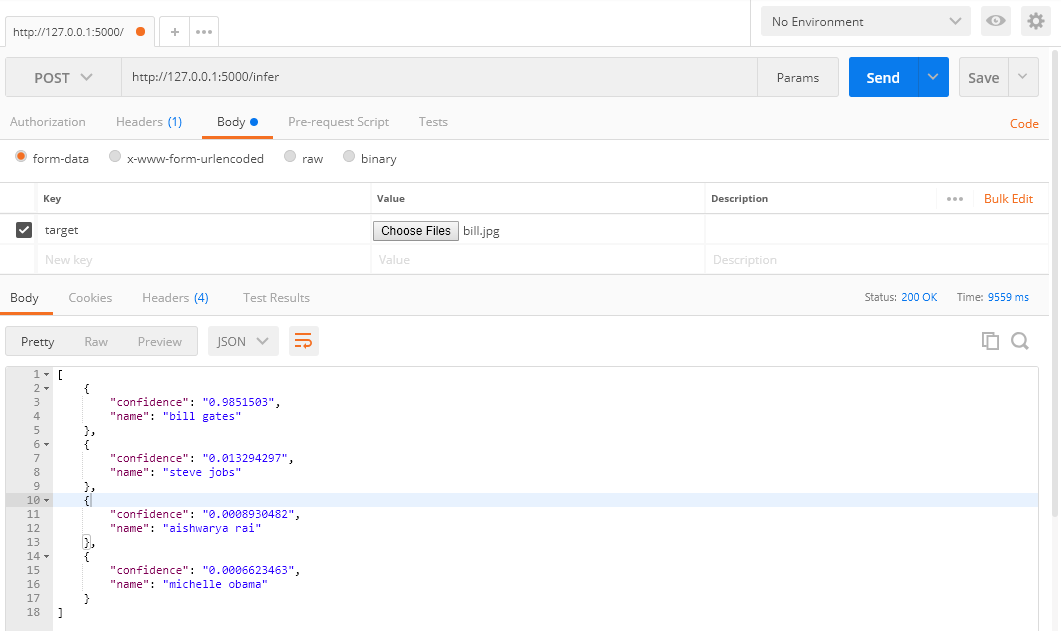
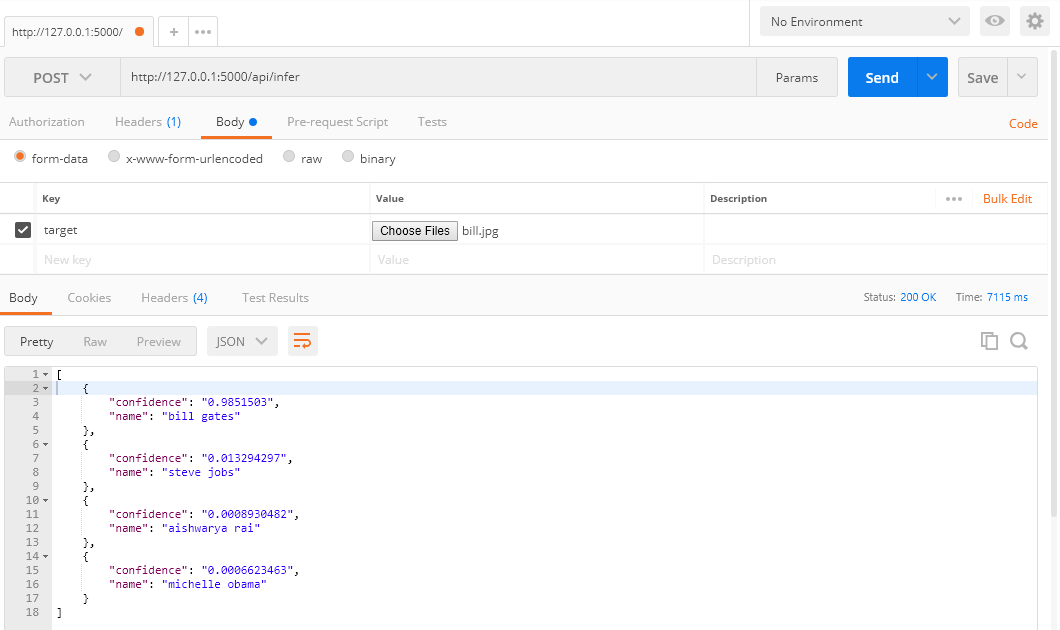
Added a webpage to test the API.
Updated README with API and website usage instructions, and descriptions for each step.

diff --git a/web/index.html b/web/index.html
@@ -1,0 +1,162 @@
+<!DOCTYPE html>
+<html>
+  <head>
+    <meta charset="utf-8">
+    <meta name="viewport" content="width=device-width, initial-scale=1">
+    <title>Celebrity Recognizer</title>
+    <link rel="stylesheet" href="https://cdnjs.cloudflare.com/ajax/libs/bulma/0.7.1/css/bulma.min.css">
+  </head>
+  <body>
+    <section class="section has-text-centered">
+        <div class="container">
+            <h1 class="title">
+                Celebrity Recognizer
+            </h1>
+            <p class="subtitle">
+                Upload a photo of a celebrity and instantly find out who they are.<br>
+                Supported:
+                <span class="tag">Aishwarya Rai</span>
+                <span class="tag">Bill Gates</span>
+                <span class="tag">Michelle Obama</span>
+                <span class="tag">Steve Jobs</span>
+            </p>
+            <div class="card has-text-centered">
+                <header class="card-header">
+                  <p class="card-header-title">
+                    Celebrity name will appear here
+                  </p>
+                </header>
+                <div class="card-content">
+                  <div class="content">
+                    <figure>
+                        <img id="imgCelebPhoto" width="256"
+                            src="http://maclaarte.org/wp-content/uploads/2013/11/person-placeholder-female2.jpg">
+                    </figure>
+                  </div>
+                </div>
+                <footer class="card-footer">
+                    <div class="card-footer-item file">
+                        <label class="file-label">
+                            <input id="fileCelebImg" class="file-input" type="file">
+                            <span class="file-cta">
+                            <span class="file-icon">
+                                <i class="fas fa-image"></i>
+                            </span>
+                            <span class="file-label">
+                                Pick photo
+                            </span>
+                            </span>
+                        </label>
+                    </div>
+                    <a id="btnGo" class="card-footer-item button is-large is-primary has-text-weight-bold"
+                        href="#">Go!</a>
+                </footer>
+              </div>
+        </div>
+    </section>
+    <footer class="footer">
+        <div class="content has-text-centered">
+        <p>
+            <a href="https://anuragbhandari.com">Anurag Bhandari</a>, 2018. The source code and website are licensed
+            <a href="http://opensource.org/licenses/mit-license.php">MIT</a>.
+        </p>
+        </div>
+    </footer>
+
+    <!-- SCRIPTS -->
+    <script src="https://use.fontawesome.com/releases/v5.1.0/js/all.js"></script>
+    <script src="https://code.jquery.com/jquery-3.3.1.min.js"></script>
+    <script>
+        $(document).ready(function() {
+            // Global variables
+            var selectedFile;
+
+            // Handle file input change
+            $('#fileCelebImg').change(function(event) {
+                // Get the selected file
+                selectedFile = $(this)[0].files[0];
+                // Ensure the file is an image
+                if (selectedFile.type.indexOf("image") === -1) {
+                    alert("Picked file must be an image!"); // show error message
+                    $(this)[0].value = ''; // removed the added file
+                    return; // exit
+                }
+                // Update selected file name
+                $('span.file-name').text(selectedFile.name);
+                // Show picked image's preview
+                showFilePreview(selectedFile);
+            });
+
+            // Handle Go! button click
+            $('#btnGo').click(function(event) {
+                // Disable button click's default behavior
+                event.preventDefault();
+                // Identify the celebrity
+                sendImageforCelebRecognition(selectedFile);
+            });
+        });
+
+        /**
+        * Loads selected image's dataURL in preview img element.
+        */
+        function showFilePreview(file) {
+            // Setup a FileReader
+            var reader  = new FileReader();
+            // Update the preview img element on read success
+            reader.addEventListener("load", function () {
+                $('#imgCelebPhoto').attr('src', reader.result);
+            }, false);
+            // Get data URL using FileReader
+            if (file) {
+                reader.readAsDataURL(file);
+            }
+        }
+
+        /**
+         * Sends the selected image file to the API
+         * for recognizing the celebrity in photo.
+         * Shows the top scoring celebrity in the results section.
+         */
+        function sendImageforCelebRecognition(file) {
+            if (file) {
+                // Show loader and disable Go! button
+                $('#btnGo').addClass('is-loading');
+                ajaxPostClassificationApi(file, function(result) {
+                    // Update card's title (celeb name)
+                    $('p.card-header-title').text(result[0].name);
+                    // Hide loader and enable Go! button
+                    $('#btnGo').removeClass('is-loading');
+                });
+            }
+            else {
+                alert("Did you forget to pick a celebrity photo?");
+            }
+        }
+
+        /**
+         * Makes an HTTP POST call to the classification API.
+         * Executes the callback on success.
+         */
+        function ajaxPostClassificationApi(file, callback) {
+            var formData = new FormData();
+            formData.append('target', file);
+            $.ajax({
+                url: '/api/infer',
+                method: 'post',
+                processData: false,
+                contentType: false,
+                cache: false,
+                data: formData,
+                enctype: 'multipart/form-data',
+                success: function(response){
+                    if (callback && typeof callback === "function") {
+                        callback(response);
+                    }
+                },error: function(){
+                    console.log("not okay");
+                }
+            });
+        }
+    </script>
+  </body>
+</html>

diff --git a/server.py b/server.py
@@ -22,8 +22,9 @@
 
 import tensorflow as tf
 import numpy as np
-from flask import Flask, request, jsonify
+from flask import Flask, request, jsonify, send_from_directory
 from flask_uploads import UploadSet, configure_uploads, IMAGES
+import os.path
 
 # App configuration
 app = Flask(__name__)
@@ -37,7 +38,11 @@ label_file = "trained-model/output_labels.txt"
 input_layer = "Placeholder"
 output_layer = "final_result"
 
-@app.route('/infer', methods=['POST'])
+@app.route('/')
+def root():
+	return send_from_directory(os.path.join('web'), 'index.html')
+
+@app.route('/api/infer', methods=['POST'])
 def infer():
 	"""
 	Performs inference on the given target image,

diff --git a/README.md b/README.md
@@ -1,4 +1,6 @@
 ## Create a virtual env
+Sandboxing all Python development in a virtual environment is a recommended practice.
+This will ensure any Python packages you install for this application will not affect or conflict with the system-level packages.
 ```
 pip install --upgrade virtualenv
 virtualenv --system-site-packages tensorflow
@@ -12,11 +14,14 @@ deactivate
 ```
 
 ## Install Tensorflow and friends
+Because if there's no deep learning framework then what are we even doing here?
 ```
 pip install tensorflow tensorflow_hub
 ```
 
 ## Start retraining
+This may take anywhere between 10-40 mins.
+My MacBook Pro took 12 mins, while my Windows laptop took 37 mins.
 ```
 python retrain.py --image_dir celeb-photos --logdir logs --saved_model_dir=saved-model
 ```
@@ -26,18 +31,21 @@ python retrain.py --image_dir celeb-photos --logdir logs --saved_model_dir=saved
 python label_image.py --graph=/tmp/output_graph.pb --labels=/tmp/output_labels.txt --input_layer=Placeholder --output_layer=final_result --image=bill.jpg
 ```
 ## Install Flask and friends
+Required for creating an HTTP API for inferences.
+After all, we are developing for normal people (who use websites) rather than geeks (who use command-line).
 ```
 pip install flask Flask-Uploads
 ```
 
-## Host the API
+## Start the server
+This will host both our image classification API and frontend webpage that we'll use to test our API.
 ```
-python api.py
+python server.py
 ```
 
-## Test the API
+## Test the API in Postman
 ```
-POST /infer HTTP/1.1
+POST /api/infer HTTP/1.1
 Host: 127.0.0.1:5000
 Cache-Control: no-cache
 Postman-Token: 3e108526-8c08-ea9c-393b-ce8b58ee66fb
@@ -51,3 +59,6 @@ Content-Type: image/jpeg
 ------WebKitFormBoundary7MA4YWxkTrZu0gW--
 ```
 ![Testing the API in Postman](docs/Testing-the-API-in-Postman.png)
+
+## Test the API from webpage
+![Using the website](docs/Celebrity-Recognizer-Website.png)
